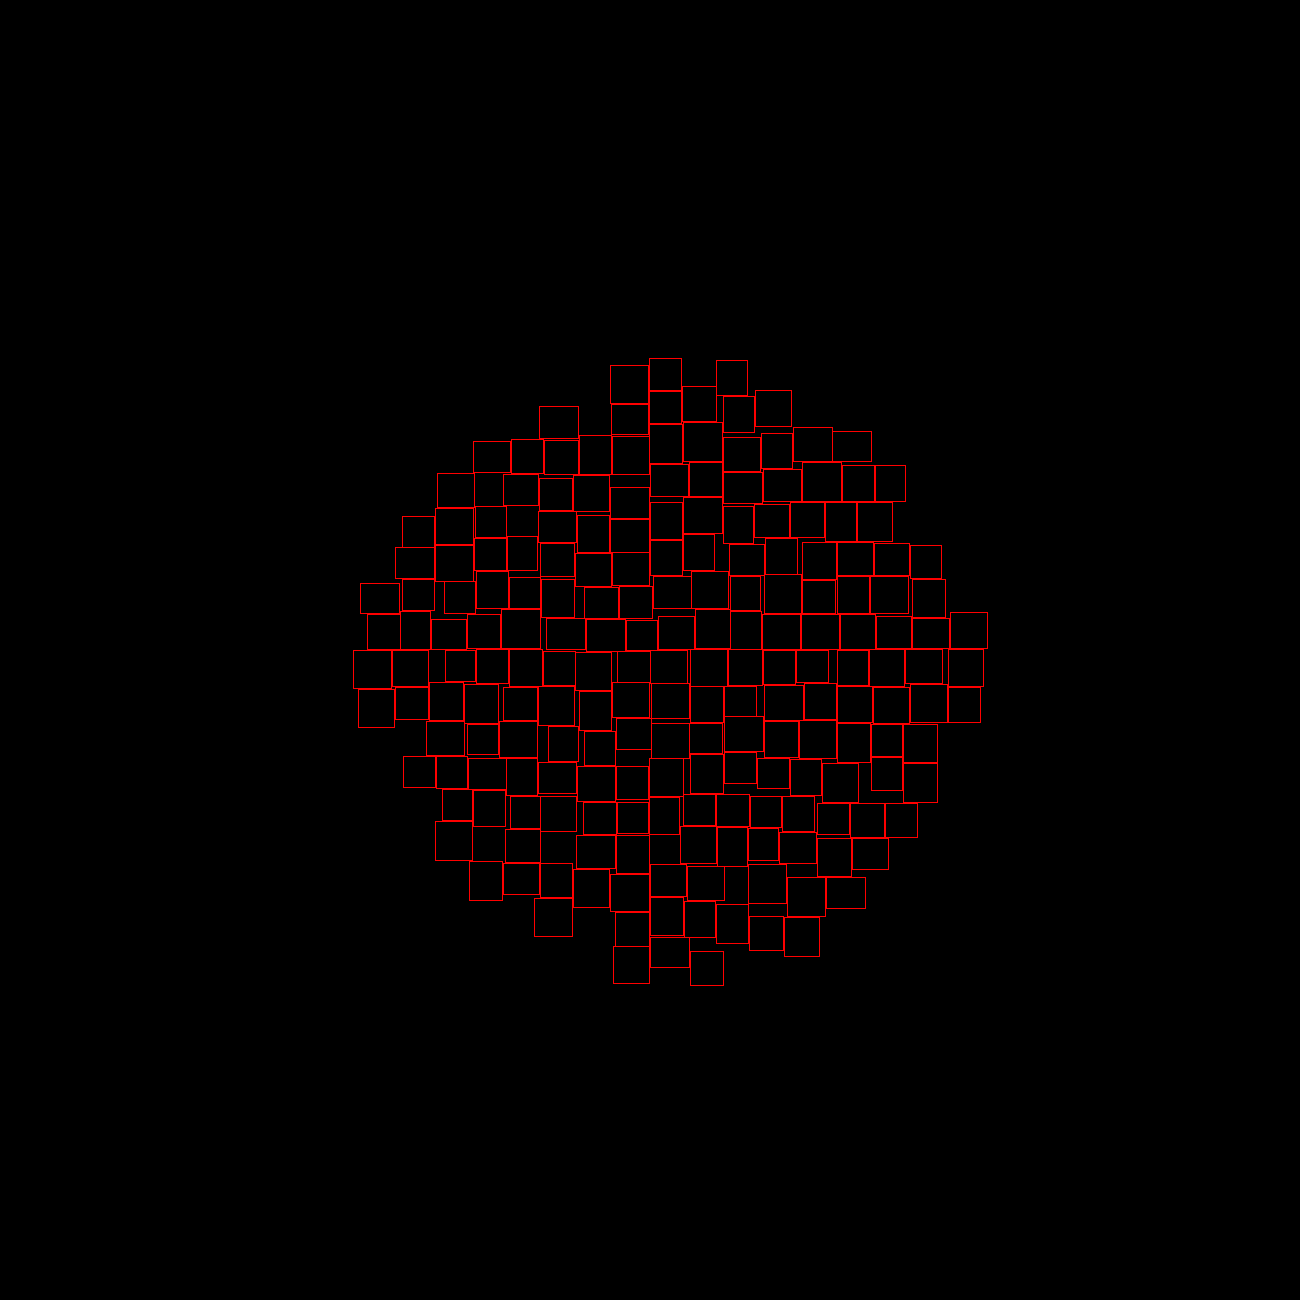
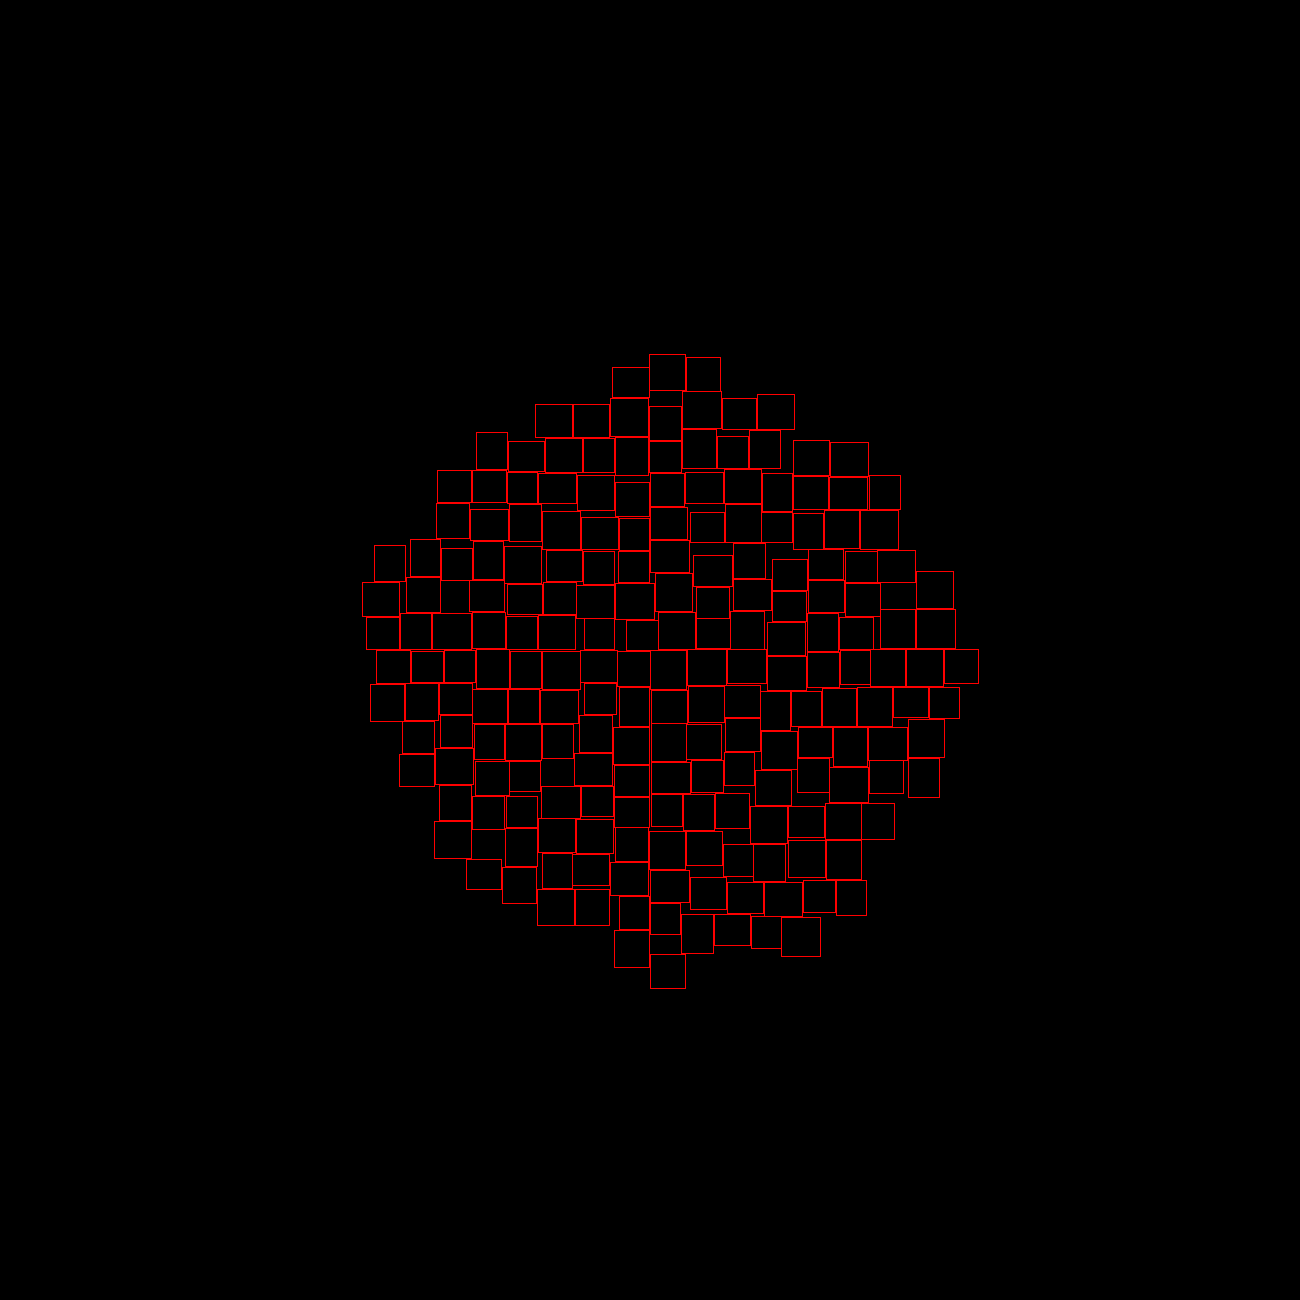
сделал нормальный паттерн disposable и немного отрефакторил код стаил

Changed region(s): [[0.2769, 0.2769, 0.7385, 0.7385], [0.3385, 0.6462, 0.3692, 0.6769]]

diff --git a/cs/TagsCloudVisualization/TagCloud/Abstraction/TagCloud.cs b/cs/TagsCloudVisualization/TagCloud/Abstraction/TagCloud.cs
@@ -8,8 +8,12 @@ namespace TagsCloudVisualization;
 public class TagCloud : IDisposable
 {
     private readonly ICloudLayouter cloudLayouter;
-    private readonly ITagCloudImage tagCloudImage; // ему по сути, не очень нужно знать ничего про rectangles - он только рисует остальное ему знать не нужно
-    
+
+    private readonly ITagCloudImage
+        tagCloudImage; // ему по сути, не очень нужно знать ничего про rectangles - он только рисует остальное ему знать не нужно
+
+    private bool IsDisposed;
+
     public TagCloud(ICloudLayouter cloudLayouter, ITagCloudImage tagCloudImage)
     {
         Validate(cloudLayouter, tagCloudImage);
@@ -17,19 +21,18 @@ public class TagCloud : IDisposable
         this.tagCloudImage = tagCloudImage;
     }
 
-    public void Validate(ICloudLayouter cloudLayouter, ITagCloudImage tagCloudImage)
+
+    private static void Validate(ICloudLayouter cloudLayouter, ITagCloudImage tagCloudImage)
     {
         if (cloudLayouter.Start.Y > tagCloudImage.Size().Height ||
             cloudLayouter.Start.X > tagCloudImage.Size().Width)
-        {
-            throw new ArgumentException("the start position is abroad of image"); 
-        }
+            throw new ArgumentException("the start position is abroad of image");
     }
 
     // было красиво было бы если, в аргументах принимали бы массив tags, по их популярности, а не random, но по задачи этого делать не нужно
     public void GenerateCloud(int countTag, int minSize, int maxSize)
     {
-        for (int i = 0; i < countTag; i++)
+        for (var i = 0; i < countTag; i++)
         {
             var width = Random.Shared.Next(minSize, maxSize);
             var height = Random.Shared.Next(minSize, maxSize);
@@ -37,14 +40,35 @@ public class TagCloud : IDisposable
             tagCloudImage.Draw(rec);
         }
     }
-    
+
     public void Save()
     {
         tagCloudImage.Save();
     }
 
+    ~TagCloud()
+    {
+        Dispose(false);
+    }
+
     public void Dispose()
     {
-        tagCloudImage.Dispose();
+        Dispose(true);
+        GC.SuppressFinalize(this);
+    }
+
+    private void Dispose(bool fromMethod)
+    {
+        if (!IsDisposed)
+        {
+            if (fromMethod)
+            {
+                // потенциально это может в будущем пригодится, еще есть tag 2 и 3.
+            }
+
+            tagCloudImage.Dispose();
+
+            IsDisposed = true;
+        }
     }
 }

diff --git a/cs/TagsCloudVisualization/TagCloud/CloudBitMap.cs b/cs/TagsCloudVisualization/TagCloud/CloudBitMap.cs
@@ -1,0 +1,70 @@
+using System.Drawing;
+using System.Drawing.Imaging;
+
+namespace TagsCloudVisualization;
+
+public class CloudBitMap : ITagCloudImage
+{
+    private readonly Bitmap bitmap;
+    private readonly string filePath;
+    private readonly Graphics graphics;
+    private readonly Pen pen = new(Color.Red);
+    private bool IsDisposed;
+
+    public CloudBitMap(int width, int height, string filePath)
+    {
+        Validate(filePath, width, height);
+
+        bitmap = new Bitmap(width, height);
+        graphics = Graphics.FromImage(bitmap);
+        graphics.Clear(Color.Black);
+        this.filePath = filePath;
+    }
+
+    public Size Size() => bitmap.Size;
+
+    public void Draw(Rectangle rec)
+    {
+        graphics.DrawRectangle(pen, rec);
+    }
+
+    public void Save()
+    {
+        bitmap.Save(filePath, ImageFormat.Png);
+    }
+
+    ~CloudBitMap()
+    {
+        Dispose(false);
+    }
+
+    private static void Validate(string filePath, int width, int height)
+    {
+        if (!Directory.Exists(Path.GetDirectoryName(filePath))) throw new DirectoryNotFoundException();
+        if (width <= 0 || height <= 0) throw new ArgumentException("size of image should be with positive number");
+    }
+
+    public void Dispose()
+    {
+        Dispose(true);
+        GC.SuppressFinalize(this);
+    }
+
+    private void Dispose(bool fromMethod)
+    {
+        if (!IsDisposed)
+        {
+            if (fromMethod)
+            {
+                // представим, что здесь интерфейс логера. как будто гибкая штука)
+                Console.WriteLine($"file saved in {filePath}");
+            }
+
+            bitmap.Dispose();
+            graphics.Dispose();
+            pen.Dispose();
+            
+            IsDisposed = true;
+        }
+    }
+}

diff --git a/cs/TagsCloudVisuliazation.Test/CloudBitMapTests.cs b/cs/TagsCloudVisuliazation.Test/CloudBitMapTests.cs
@@ -11,7 +11,7 @@ public class CloudBitMapTests
     public void CloudBitMap_DirectoryShouldBeExist()
     {
         var filePath = "./../../../OuterWild/notIntersect-50.png";
-        Action action = () => new CloundBitMap(5, 5, filePath);
+        Action action = () => new CloudBitMap(5, 5, filePath);
         action.Should().Throw<DirectoryNotFoundException>();
     }
  
@@ -19,7 +19,7 @@ public class CloudBitMapTests
     public void CloudBitMap_ShouldBe_SizeWithPositiveNumbers()
     {
         var filePath = "./../../../photos/notIntersect-50.png";
-        Action action = () => new CloundBitMap(-1, 5, filePath);
+        Action action = () => new CloudBitMap(-1, 5, filePath);
         action.Should().Throw<ArgumentException>();
     }
 
@@ -27,7 +27,7 @@ public class CloudBitMapTests
     public void CloudBitMap_ShouldBe_CreatePhoto()
     {
         var filePath = "./../../../photos/test_create_photo.png";
-        var cloudBitMap = new CloundBitMap(30, 300, filePath);
+        var cloudBitMap = new CloudBitMap(30, 300, filePath);
         
         cloudBitMap.Save();
         File.Exists(filePath).Should().BeTrue();

diff --git a/cs/TagsCloudVisualization/TagCloud/CircularCloudLayouter.cs b/cs/TagsCloudVisualization/TagCloud/CircularCloudLayouter.cs
@@ -4,19 +4,19 @@ namespace TagsCloudVisualization;
 
 public class CircularCloudLayouter : ICloudLayouter
 {
-    private readonly List<Rectangle> rectangles;
-    private double angle;
     private const double CoefficientRadius = 1.3;
     private const int CoefficientAngle = 14;
+    private readonly List<Rectangle> rectangles;
+    private double angle;
 
     public CircularCloudLayouter(Point center)
     {
-        validate(center);
-        rectangles = new List<Rectangle>();
+        Validate(center);
+        rectangles = [];
         Start = center;
     }
 
-    public Point Start { get; set; }
+    public Point Start { get; }
 
     public Rectangle PutNextRectangle(Size rectangleSize)
     {
@@ -35,7 +35,7 @@ public class CircularCloudLayouter : ICloudLayouter
         return rec;
     }
 
-    private void validate(Point center)
+    private static void Validate(Point center)
     {
         if (center.X < 0) throw new ArgumentException("X has value less than 0");
         if (center.Y < 0) throw new ArgumentException("Y has value less than 0");

diff --git a/cs/TagsCloudVisuliazation.Test/TagCloudTests.cs b/cs/TagsCloudVisuliazation.Test/TagCloudTests.cs
@@ -14,7 +14,7 @@ public class TagCloudTests
     public void Setup()
     {
         var circularCloudLayouter = new CircularCloudLayouter(new Point(500, 500));
-        var tagImage = new CloundBitMap(1000, 1000, PathPhoto);
+        var tagImage = new CloudBitMap(1000, 1000, PathPhoto);
         tagCloud = new TagCloud(circularCloudLayouter, tagImage);
     }
 
@@ -32,7 +32,7 @@ public class TagCloudTests
     public void TagCloud_StartPosition_ShouldBe_In_Image()
     {
         var circularCloudLayouter = new CircularCloudLayouter(new Point(6, 3));
-        var tagImage = new CloundBitMap(5, 5, "./../../../photos/ph");
+        var tagImage = new CloudBitMap(5, 5, "./../../../photos/ph");
         Action action = () => new TagCloud(circularCloudLayouter, tagImage);
         action.Should().Throw<ArgumentException>().WithMessage("the start position is abroad of image");
     }

diff --git a/cs/TagsCloudVisualization/Program.cs b/cs/TagsCloudVisualization/Program.cs
@@ -5,7 +5,7 @@ using TagsCloudVisualization;
 
 // хоть расскладки могут быть разные как и способы рисования. меня напрягает, что они оба друг от друга зависимы размером и поинтом. или это норм в данном случае?
 var circularCloudLayouter = new CircularCloudLayouter(new Point(650, 650));
-using var tagImage = new CloundBitMap(1300, 1300, "./../../../photos/notIntersect-200.png");
+using var tagImage = new CloudBitMap(1300, 1300, "./../../../photos/notIntersect-200.png");
 using var tagCloud = new TagCloud(circularCloudLayouter, tagImage);
 tagCloud.GenerateCloud(200, 30, 40);
 tagCloud.Save();

diff --git a/cs/TagsCloudVisualization/TagCloud/Implemention/ICloudLayouter.cs b/cs/TagsCloudVisualization/TagCloud/Implemention/ICloudLayouter.cs
@@ -4,7 +4,7 @@ namespace TagsCloudVisualization;
 
 public interface ICloudLayouter // так это получается паттерн стратегия
 {
-    public Point Start { get; protected set; }
+    public Point Start { get; }
 
 
     public Rectangle PutNextRectangle(Size rectangleSize);

diff --git a/cs/TagsCloudVisualization/TagCloud/Implemention/ITagCloudImage.cs b/cs/TagsCloudVisualization/TagCloud/Implemention/ITagCloudImage.cs
@@ -6,6 +6,5 @@ public interface ITagCloudImage : IDisposable
 {
     Size Size();
     void Draw(Rectangle rec);
-    
     void Save();
 }
